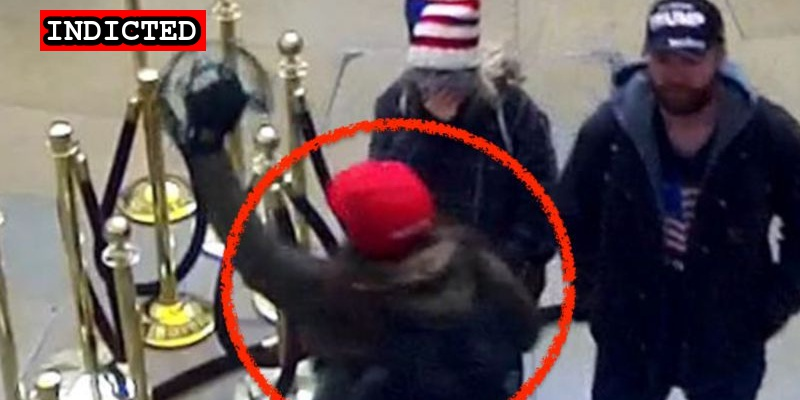
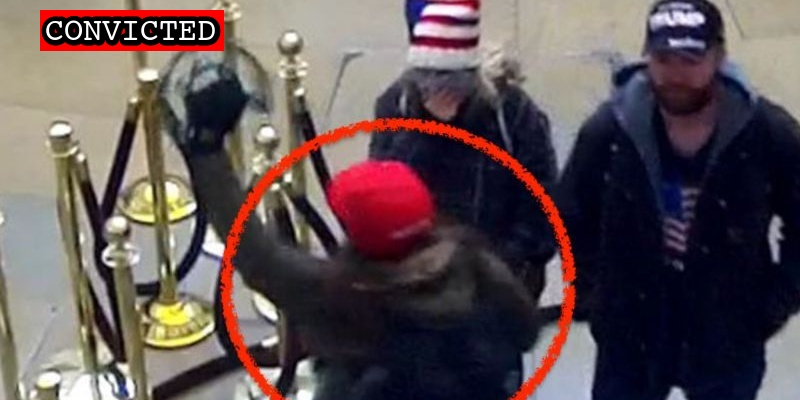
More updates

Changed region(s): [[0.0312, 0.0, 0.2812, 0.15]]

diff --git a/docs/_suspects/sara-carpenter.md b/docs/_suspects/sara-carpenter.md
@@ -4,11 +4,11 @@ lastName: Carpenter
 hashtag: SaraCarpenter
 aka:
 residence: New York
-status: Indicted
+status: Convicted
 date: 2021-03-23
 charged: 2021-03-23
 indicted: 2021-06-16
-convicted:
+convicted: 2023-03-09
 acquitted:
 sentenced:
 dismissed:
@@ -32,7 +32,7 @@ raid:
 perpwalk:
 quote:
 title: Sara Carpenter arrested on March 23, 2021
-description: Click for latest case details. Suspects innocent until proven guilty.
+description: Convicted on March 9, 2023. Click for latest case details.
 author: seditiontrack
 layout: suspect
 published: true
@@ -41,9 +41,38 @@ caseName: USA v. CARPENTER
 judge: James E. Boasberg
 videos:
 charges:
+  - code: 18 USC § 231(a)(3)
+    title: Obstruction of Law Enforcement During Civil Disorder
+    url: https://www.law.cornell.edu/uscode/text/18/231
+    felony: true
+  - code: 18 USC § 1512(c)(2),2
+    title: Obstruction of an Official Proceeding (Aiding and Abetting)
+    url: https://www.law.cornell.edu/uscode/text/18/1512
+    felony: true
+  - code: 18 USC § 1752(a)(1)
+    title: Entering a restricted building or grounds
+    url: https://www.law.cornell.edu/uscode/text/18/1752
+    felony: false
+  - code: 18 USC § 1752(a)(2)
+    title: Disorderly and disruptive conduct in a restricted building or grounds
+    url: https://www.law.cornell.edu/uscode/text/18/1752
+    felony: false
+  - code: 40 USC § 5104(e)(2)(D)
+    title: Disorderly Conduct in a Capitol Building
+    url: https://www.law.cornell.edu/uscode/text/40/5104
+    felony: false
+  - code: 40 USC § 5104(e)(2)(E)
+    title: Impeding passage through the Capitol grounds
+    url: https://www.law.cornell.edu/uscode/text/40/5104
+    felony: false
+  - code: 40 USC § 5104(e)(2)(G)
+    title: Parading, demonstrating or picketing in a Capitol building
+    url: https://www.law.cornell.edu/uscode/text/40/5104
+    felony: false
 sentence:
 ---
+
 - [News Report](https://www.nydailynews.com/new-york/nyc-crime/ny-capitol-riots-former-nypd-police-officer-arrest-sara-carpenter-20210323-try3cc7m3bbhrlfrph5emanlqi-story.html)
 - [Statement of Facts](https://www.justice.gov/usao-dc/case-multi-defendant/file/1393356/download)
 - [Information](https://www.justice.gov/usao-dc/case-multi-defendant/file/1393351/download)
-- [Indictment](https://www.justice.gov/usao-dc/case-multi-defendant/file/1416906/download)
+- [Indictment](https://storage.courtlistener.com/recap/gov.uscourts.dcd.230216/gov.uscourts.dcd.230216.35.0.pdf)

diff --git a/docs/_suspects/karegan-bostic.md b/docs/_suspects/karegan-bostic.md
@@ -41,15 +41,17 @@ caseName: USA v. BOSTIC
 judge: Colleen Kollar-Kotelly
 videos:
 charges:
-- code: 40 USC § 5104(e)(2)(G)
-  title: Parading, demonstrating or picketing in a Capitol building
-  url: https://www.law.cornell.edu/uscode/text/40/5104
-  felony: false
+  - code: 40 USC § 5104(e)(2)(G)
+    title: Parading, demonstrating or picketing in a Capitol building
+    url: https://www.law.cornell.edu/uscode/text/40/5104
+    felony: false
 sentence:
 ---
+
 - [News Report](https://www.wtkr.com/news/third-member-of-local-family-charged-in-connection-to-riots-at-us-capitol)
 - [Statement of Facts](https://www.justice.gov/usao-dc/case-multi-defendant/file/1509026/download)
 - [Complaint](https://www.justice.gov/usao-dc/case-multi-defendant/file/1509031/download)
 - [Information](https://www.justice.gov/usao-dc/case-multi-defendant/file/1548706/download)
 - [Plea Agreement](https://www.justice.gov/usao-dc/case-multi-defendant/file/1548711/download)
 - [Statement of Offense](https://www.justice.gov/usao-dc/case-multi-defendant/file/1548716/download)
+- [Sentencing Memo](https://storage.courtlistener.com/recap/gov.uscourts.dcd.244179/gov.uscourts.dcd.244179.95.0.pdf)

diff --git a/docs/_suspects/eric-gerwatowski.md b/docs/_suspects/eric-gerwatowski.md
@@ -4,13 +4,13 @@ lastName: Gerwatowski
 hashtag: LordLongHair
 aka:
 residence: New York
-status: Convicted
+status: Sentenced
 date: 2022-02-02
 charged: 2022-02-02
 indicted: 2022-04-13
 convicted: 2022-11-22
 acquitted:
-sentenced:
+sentenced: 2023-03-09
 dismissed:
 deceased:
 plea_hearing: 2022-11-22
@@ -41,12 +41,15 @@ caseName: USA v. GERWATOWSKI
 judge: Jia M. Cobb
 videos:
 charges:
-- code: 18 USC § 231(a)(3)
-  title: Obstruction of Law Enforcement During Civil Disorder
-  url: https://www.law.cornell.edu/uscode/text/18/231
-  felony: true
+  - code: 18 USC § 231(a)(3)
+    title: Obstruction of Law Enforcement During Civil Disorder
+    url: https://www.law.cornell.edu/uscode/text/18/231
+    felony: true
 sentence:
+  - 2 years probation
+  - $2000 restitution
 ---
+
 - [News Report](https://www.newsweek.com/feds-arrest-jan-6-rioter-who-allegedly-grabbed-door-shouted-lets-go-1677359)
 - [Complaint](https://www.justice.gov/usao-dc/case-multi-defendant/file/1470321/download)
 - [Statement of Facts](https://www.justice.gov/usao-dc/case-multi-defendant/file/1470326/download)
